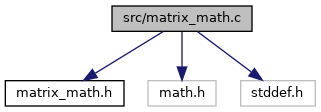
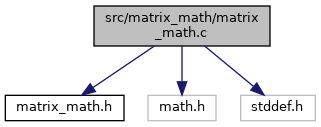
deploy: eb3fe1fb6cd07da78a9d0240a4da4241d661144b

diff --git a/main_8c_source.html b/main_8c_source.html
@@ -1,0 +1,139 @@
+<!DOCTYPE html PUBLIC "-//W3C//DTD XHTML 1.0 Transitional//EN" "https://www.w3.org/TR/xhtml1/DTD/xhtml1-transitional.dtd">
+<html xmlns="http://www.w3.org/1999/xhtml">
+<head>
+<meta http-equiv="Content-Type" content="text/xhtml;charset=UTF-8"/>
+<meta http-equiv="X-UA-Compatible" content="IE=9"/>
+<meta name="generator" content="Doxygen 1.8.18"/>
+<meta name="viewport" content="width=device-width, initial-scale=1"/>
+<title>c_matrix_library: src/main.c Source File</title>
+<link href="tabs.css" rel="stylesheet" type="text/css"/>
+<script type="text/javascript" src="jquery.js"></script>
+<script type="text/javascript" src="dynsections.js"></script>
+<link href="search/search.css" rel="stylesheet" type="text/css"/>
+<script type="text/javascript" src="search/searchdata.js"></script>
+<script type="text/javascript" src="search/search.js"></script>
+<link href="doxygen.css" rel="stylesheet" type="text/css" />
+</head>
+<body>
+<div id="top"><!-- do not remove this div, it is closed by doxygen! -->
+<div id="titlearea">
+<table cellspacing="0" cellpadding="0">
+ <tbody>
+ <tr style="height: 56px;">
+  <td id="projectalign" style="padding-left: 0.5em;">
+   <div id="projectname">c_matrix_library
+   </div>
+  </td>
+ </tr>
+ </tbody>
+</table>
+</div>
+<!-- end header part -->
+<!-- Generated by Doxygen 1.8.18 -->
+<script type="text/javascript">
+/* @license magnet:?xt=urn:btih:cf05388f2679ee054f2beb29a391d25f4e673ac3&amp;dn=gpl-2.0.txt GPL-v2 */
+var searchBox = new SearchBox("searchBox", "search",false,'Search');
+/* @license-end */
+</script>
+<script type="text/javascript" src="menudata.js"></script>
+<script type="text/javascript" src="menu.js"></script>
+<script type="text/javascript">
+/* @license magnet:?xt=urn:btih:cf05388f2679ee054f2beb29a391d25f4e673ac3&amp;dn=gpl-2.0.txt GPL-v2 */
+$(function() {
+  initMenu('',true,false,'search.php','Search');
+  $(document).ready(function() { init_search(); });
+});
+/* @license-end */</script>
+<div id="main-nav"></div>
+<!-- window showing the filter options -->
+<div id="MSearchSelectWindow"
+     onmouseover="return searchBox.OnSearchSelectShow()"
+     onmouseout="return searchBox.OnSearchSelectHide()"
+     onkeydown="return searchBox.OnSearchSelectKey(event)">
+</div>
+
+<!-- iframe showing the search results (closed by default) -->
+<div id="MSearchResultsWindow">
+<iframe src="javascript:void(0)" frameborder="0" 
+        name="MSearchResults" id="MSearchResults">
+</iframe>
+</div>
+
+<div id="nav-path" class="navpath">
+  <ul>
+<li class="navelem"><a class="el" href="dir_68267d1309a1af8e8297ef4c3efbcdba.html">src</a></li>  </ul>
+</div>
+</div><!-- top -->
+<div class="header">
+  <div class="headertitle">
+<div class="title">main.c</div>  </div>
+</div><!--header-->
+<div class="contents">
+<div class="fragment"><div class="line"><a name="l00001"></a><span class="lineno">    1</span>&#160;<span class="preprocessor">#include &quot;<a class="code" href="matrix__math_8h.html">matrix_math.h</a>&quot;</span></div>
+<div class="line"><a name="l00002"></a><span class="lineno">    2</span>&#160; </div>
+<div class="line"><a name="l00003"></a><span class="lineno">    3</span>&#160;<span class="preprocessor">#include &lt;stdio.h&gt;</span></div>
+<div class="line"><a name="l00004"></a><span class="lineno">    4</span>&#160; </div>
+<div class="line"><a name="l00005"></a><span class="lineno">    5</span>&#160;<span class="keywordtype">int</span> main(<span class="keywordtype">void</span>)</div>
+<div class="line"><a name="l00006"></a><span class="lineno">    6</span>&#160;{</div>
+<div class="line"><a name="l00007"></a><span class="lineno">    7</span>&#160;    <a class="code" href="matrix__math_8h.html#a336e5554a8511665fbe82939fdb8a75d">MTX_Error_E</a> error;</div>
+<div class="line"><a name="l00008"></a><span class="lineno">    8</span>&#160; </div>
+<div class="line"><a name="l00009"></a><span class="lineno">    9</span>&#160;    <span class="keywordtype">float</span> dataA[3][3] = {</div>
+<div class="line"><a name="l00010"></a><span class="lineno">   10</span>&#160;        {1.0f, 2.0f, 3.0f}, </div>
+<div class="line"><a name="l00011"></a><span class="lineno">   11</span>&#160;        {4.0f, 5.0f, 6.0f}, </div>
+<div class="line"><a name="l00012"></a><span class="lineno">   12</span>&#160;        {7.0f, 8.0f, 9.0f}};</div>
+<div class="line"><a name="l00013"></a><span class="lineno">   13</span>&#160; </div>
+<div class="line"><a name="l00014"></a><span class="lineno">   14</span>&#160;    <span class="keywordtype">float</span> dataB[3][3] = {</div>
+<div class="line"><a name="l00015"></a><span class="lineno">   15</span>&#160;        {1.0f, 2.0f, 3.0f}, </div>
+<div class="line"><a name="l00016"></a><span class="lineno">   16</span>&#160;        {4.0f, 5.0f, 6.0f}, </div>
+<div class="line"><a name="l00017"></a><span class="lineno">   17</span>&#160;        {7.0f, 8.0f, 9.0f}};</div>
+<div class="line"><a name="l00018"></a><span class="lineno">   18</span>&#160; </div>
+<div class="line"><a name="l00019"></a><span class="lineno">   19</span>&#160;    <span class="keywordtype">float</span> dataC[3][3];</div>
+<div class="line"><a name="l00020"></a><span class="lineno">   20</span>&#160; </div>
+<div class="line"><a name="l00021"></a><span class="lineno">   21</span>&#160;    <a class="code" href="structMTX__Matrix__STRUCT.html">MTX_Matrix_S</a> A, B, C;</div>
+<div class="line"><a name="l00022"></a><span class="lineno">   22</span>&#160; </div>
+<div class="line"><a name="l00023"></a><span class="lineno">   23</span>&#160;    <a class="code" href="matrix__math_8c.html#ad77c0f13d3f30a84e9d42ca7d2c40282">MTX_init</a>(&amp;A, 3, 3, (<span class="keywordtype">float</span> *)dataA, &amp;error);</div>
+<div class="line"><a name="l00024"></a><span class="lineno">   24</span>&#160;    <a class="code" href="matrix__math_8c.html#ad77c0f13d3f30a84e9d42ca7d2c40282">MTX_init</a>(&amp;B, 3, 3, (<span class="keywordtype">float</span> *)dataB, &amp;error);</div>
+<div class="line"><a name="l00025"></a><span class="lineno">   25</span>&#160;    <a class="code" href="matrix__math_8c.html#ad77c0f13d3f30a84e9d42ca7d2c40282">MTX_init</a>(&amp;C, 3, 3, (<span class="keywordtype">float</span> *)dataC, &amp;error);</div>
+<div class="line"><a name="l00026"></a><span class="lineno">   26</span>&#160; </div>
+<div class="line"><a name="l00027"></a><span class="lineno">   27</span>&#160;    <span class="comment">// C = cholesky(A)</span></div>
+<div class="line"><a name="l00028"></a><span class="lineno">   28</span>&#160;    <a class="code" href="matrix__math_8c.html#a34f5f55e427aec058991cd7fcde23878">MTX_cholesky</a>(&amp;C, &amp;A, &amp;error);</div>
+<div class="line"><a name="l00029"></a><span class="lineno">   29</span>&#160; </div>
+<div class="line"><a name="l00030"></a><span class="lineno">   30</span>&#160;    <span class="comment">// B = A + B</span></div>
+<div class="line"><a name="l00031"></a><span class="lineno">   31</span>&#160;    <a class="code" href="matrix__math_8c.html#a5814af14021b0e3dc78baccff27b858e">MTX_add</a>(&amp;B, &amp;A, &amp;B, &amp;error);</div>
+<div class="line"><a name="l00032"></a><span class="lineno">   32</span>&#160; </div>
+<div class="line"><a name="l00033"></a><span class="lineno">   33</span>&#160;    <span class="comment">// C = A * B</span></div>
+<div class="line"><a name="l00034"></a><span class="lineno">   34</span>&#160;    <a class="code" href="matrix__math_8c.html#a48d55bb4ab8739b1209b87eea9e88abe">MTX_mult</a>(&amp;C, &amp;A, &amp;B, &amp;error);</div>
+<div class="line"><a name="l00035"></a><span class="lineno">   35</span>&#160; </div>
+<div class="line"><a name="l00036"></a><span class="lineno">   36</span>&#160;    <span class="comment">// print A matrix if MTX_mult succesfull</span></div>
+<div class="line"><a name="l00037"></a><span class="lineno">   37</span>&#160;    <span class="keywordflow">if</span> (error == <a class="code" href="matrix__math_8h.html#abfe82fa1f49083bdafda92aa88edc4faaf779365666a400fb47d2b757fa97e6ab">MTX_Matrix_ERROR_NONE</a>) {</div>
+<div class="line"><a name="l00038"></a><span class="lineno">   38</span>&#160;        <span class="keywordtype">int</span> i, j;</div>
+<div class="line"><a name="l00039"></a><span class="lineno">   39</span>&#160;        <span class="keywordflow">for</span> (i = 0; i &lt; C.<a class="code" href="structMTX__Matrix__STRUCT.html#a802019289713592116249dd0a0f37b22">cols</a>; i++) {</div>
+<div class="line"><a name="l00040"></a><span class="lineno">   40</span>&#160;            <span class="keywordflow">for</span> (j = 0; j &lt; C.<a class="code" href="structMTX__Matrix__STRUCT.html#a0e795e94211fc8a8a166519eb50c4d6d">rows</a>; j++) {</div>
+<div class="line"><a name="l00041"></a><span class="lineno">   41</span>&#160;                printf(<span class="stringliteral">&quot;%.4f &quot;</span>, C.<a class="code" href="structMTX__Matrix__STRUCT.html#aa131109f69f490da3ad5cb7f51b45a40">data</a>[i + j * C.<a class="code" href="structMTX__Matrix__STRUCT.html#a802019289713592116249dd0a0f37b22">cols</a>]);</div>
+<div class="line"><a name="l00042"></a><span class="lineno">   42</span>&#160;            }</div>
+<div class="line"><a name="l00043"></a><span class="lineno">   43</span>&#160;            printf(<span class="stringliteral">&quot;\n&quot;</span>);</div>
+<div class="line"><a name="l00044"></a><span class="lineno">   44</span>&#160;        }</div>
+<div class="line"><a name="l00045"></a><span class="lineno">   45</span>&#160;    }</div>
+<div class="line"><a name="l00046"></a><span class="lineno">   46</span>&#160; </div>
+<div class="line"><a name="l00047"></a><span class="lineno">   47</span>&#160;    <span class="keywordflow">return</span> 0;</div>
+<div class="line"><a name="l00048"></a><span class="lineno">   48</span>&#160;}</div>
+</div><!-- fragment --></div><!-- contents -->
+<div class="ttc" id="astructMTX__Matrix__STRUCT_html_aa131109f69f490da3ad5cb7f51b45a40"><div class="ttname"><a href="structMTX__Matrix__STRUCT.html#aa131109f69f490da3ad5cb7f51b45a40">MTX_Matrix_STRUCT::data</a></div><div class="ttdeci">float * data</div><div class="ttdoc">Pointer to one dimensional array of matrix elements.</div><div class="ttdef"><b>Definition:</b> <a href="matrix__math_8h_source.html#l00089">matrix_math.h:89</a></div></div>
+<div class="ttc" id="amatrix__math_8h_html_a336e5554a8511665fbe82939fdb8a75d"><div class="ttname"><a href="matrix__math_8h.html#a336e5554a8511665fbe82939fdb8a75d">MTX_Error_E</a></div><div class="ttdeci">enum MTX_Error_ENUM MTX_Error_E</div><div class="ttdoc">Matrix error enum typedef.</div><div class="ttdef"><b>Definition:</b> <a href="matrix__math_8h_source.html#l00001">matrix_math.h:108</a></div></div>
+<div class="ttc" id="amatrix__math_8c_html_ad77c0f13d3f30a84e9d42ca7d2c40282"><div class="ttname"><a href="matrix__math_8c.html#ad77c0f13d3f30a84e9d42ca7d2c40282">MTX_init</a></div><div class="ttdeci">void MTX_init(MTX_Matrix_S *c, unsigned int rows, unsigned int cols, float *data, MTX_Error_E *error)</div><div class="ttdoc">Function initializes MTX_Matrix_S data structure. Call init function before you want to work with MTX...</div><div class="ttdef"><b>Definition:</b> <a href="matrix__math_8c_source.html#l00030">matrix_math.c:30</a></div></div>
+<div class="ttc" id="amatrix__math_8h_html_abfe82fa1f49083bdafda92aa88edc4faaf779365666a400fb47d2b757fa97e6ab"><div class="ttname"><a href="matrix__math_8h.html#abfe82fa1f49083bdafda92aa88edc4faaf779365666a400fb47d2b757fa97e6ab">MTX_Matrix_ERROR_NONE</a></div><div class="ttdeci">@ MTX_Matrix_ERROR_NONE</div><div class="ttdoc">Matrix errors.</div><div class="ttdef"><b>Definition:</b> <a href="matrix__math_8h_source.html#l00097">matrix_math.h:97</a></div></div>
+<div class="ttc" id="amatrix__math_8h_html"><div class="ttname"><a href="matrix__math_8h.html">matrix_math.h</a></div><div class="ttdoc">Header file that holds matrix function definitions.</div></div>
+<div class="ttc" id="astructMTX__Matrix__STRUCT_html"><div class="ttname"><a href="structMTX__Matrix__STRUCT.html">MTX_Matrix_STRUCT</a></div><div class="ttdoc">Matrix data structure.</div><div class="ttdef"><b>Definition:</b> <a href="matrix__math_8h_source.html#l00086">matrix_math.h:86</a></div></div>
+<div class="ttc" id="amatrix__math_8c_html_a5814af14021b0e3dc78baccff27b858e"><div class="ttname"><a href="matrix__math_8c.html#a5814af14021b0e3dc78baccff27b858e">MTX_add</a></div><div class="ttdeci">void MTX_add(MTX_Matrix_S *c, const MTX_Matrix_S *a, const MTX_Matrix_S *b, MTX_Error_E *error)</div><div class="ttdoc">Function adds a and b matrixes and puts the result into the c matrix: c = a + b.</div><div class="ttdef"><b>Definition:</b> <a href="matrix__math_8c_source.html#l00081">matrix_math.c:81</a></div></div>
+<div class="ttc" id="amatrix__math_8c_html_a34f5f55e427aec058991cd7fcde23878"><div class="ttname"><a href="matrix__math_8c.html#a34f5f55e427aec058991cd7fcde23878">MTX_cholesky</a></div><div class="ttdeci">void MTX_cholesky(MTX_Matrix_S *c, const MTX_Matrix_S *a, MTX_Error_E *error)</div><div class="ttdoc">Function performs the Cholesky–Banachiewicz algorithm. Returns lower triangular matrix....</div><div class="ttdef"><b>Definition:</b> <a href="matrix__math_8c_source.html#l00546">matrix_math.c:546</a></div></div>
+<div class="ttc" id="amatrix__math_8c_html_a48d55bb4ab8739b1209b87eea9e88abe"><div class="ttname"><a href="matrix__math_8c.html#a48d55bb4ab8739b1209b87eea9e88abe">MTX_mult</a></div><div class="ttdeci">void MTX_mult(MTX_Matrix_S *c, const MTX_Matrix_S *a, const MTX_Matrix_S *b, MTX_Error_E *error)</div><div class="ttdoc">Multiplies two matrices a and b and puts the result in matrix c: c = a.</div><div class="ttdef"><b>Definition:</b> <a href="matrix__math_8c_source.html#l00336">matrix_math.c:336</a></div></div>
+<div class="ttc" id="astructMTX__Matrix__STRUCT_html_a802019289713592116249dd0a0f37b22"><div class="ttname"><a href="structMTX__Matrix__STRUCT.html#a802019289713592116249dd0a0f37b22">MTX_Matrix_STRUCT::cols</a></div><div class="ttdeci">unsigned int cols</div><div class="ttdoc">Number of matrix columns.</div><div class="ttdef"><b>Definition:</b> <a href="matrix__math_8h_source.html#l00088">matrix_math.h:88</a></div></div>
+<div class="ttc" id="astructMTX__Matrix__STRUCT_html_a0e795e94211fc8a8a166519eb50c4d6d"><div class="ttname"><a href="structMTX__Matrix__STRUCT.html#a0e795e94211fc8a8a166519eb50c4d6d">MTX_Matrix_STRUCT::rows</a></div><div class="ttdeci">unsigned int rows</div><div class="ttdoc">&lt; Matrix data structure</div><div class="ttdef"><b>Definition:</b> <a href="matrix__math_8h_source.html#l00087">matrix_math.h:87</a></div></div>
+<!-- start footer part -->
+<hr class="footer"/><address class="footer"><small>
+Generated by &#160;<a href="http://www.doxygen.org/index.html">
+<img class="footer" src="doxygen.png" alt="doxygen"/>
+</a> 1.8.18
+</small></address>
+</body>
+</html>

diff --git a/dir_997f231acc4668b3102fb3462a40d8b6.html b/dir_997f231acc4668b3102fb3462a40d8b6.html
@@ -5,7 +5,7 @@
 <meta http-equiv="X-UA-Compatible" content="IE=9"/>
 <meta name="generator" content="Doxygen 1.8.18"/>
 <meta name="viewport" content="width=device-width, initial-scale=1"/>
-<title>c_matrix_library: File List</title>
+<title>c_matrix_library: src/matrix_math Directory Reference</title>
 <link href="tabs.css" rel="stylesheet" type="text/css"/>
 <script type="text/javascript" src="jquery.js"></script>
 <script type="text/javascript" src="dynsections.js"></script>
@@ -45,7 +45,6 @@ $(function() {
 });
 /* @license-end */</script>
 <div id="main-nav"></div>
-</div><!-- top -->
 <!-- window showing the filter options -->
 <div id="MSearchSelectWindow"
      onmouseover="return searchBox.OnSearchSelectShow()"
@@ -60,20 +59,26 @@ $(function() {
 </iframe>
 </div>
 
+<div id="nav-path" class="navpath">
+  <ul>
+<li class="navelem"><a class="el" href="dir_68267d1309a1af8e8297ef4c3efbcdba.html">src</a></li><li class="navelem"><a class="el" href="dir_997f231acc4668b3102fb3462a40d8b6.html">matrix_math</a></li>  </ul>
+</div>
+</div><!-- top -->
 <div class="header">
   <div class="headertitle">
-<div class="title">File List</div>  </div>
+<div class="title">matrix_math Directory Reference</div>  </div>
 </div><!--header-->
 <div class="contents">
-<div class="textblock">Here is a list of all documented files with brief descriptions:</div><div class="directory">
-<div class="levels">[detail level <span onclick="javascript:toggleLevel(1);">1</span><span onclick="javascript:toggleLevel(2);">2</span><span onclick="javascript:toggleLevel(3);">3</span>]</div><table class="directory">
-<tr id="row_0_" class="even"><td class="entry"><span style="width:0px;display:inline-block;">&#160;</span><span id="arr_0_" class="arrow" onclick="toggleFolder('0_')">&#9660;</span><span id="img_0_" class="iconfopen" onclick="toggleFolder('0_')">&#160;</span><a class="el" href="dir_68267d1309a1af8e8297ef4c3efbcdba.html" target="_self">src</a></td><td class="desc"></td></tr>
-<tr id="row_0_0_"><td class="entry"><span style="width:16px;display:inline-block;">&#160;</span><span id="arr_0_0_" class="arrow" onclick="toggleFolder('0_0_')">&#9660;</span><span id="img_0_0_" class="iconfopen" onclick="toggleFolder('0_0_')">&#160;</span><a class="el" href="dir_997f231acc4668b3102fb3462a40d8b6.html" target="_self">matrix_math</a></td><td class="desc"></td></tr>
-<tr id="row_0_0_0_" class="even"><td class="entry"><span style="width:48px;display:inline-block;">&#160;</span><a href="matrix__math_8c_source.html"><span class="icondoc"></span></a><a class="el" href="matrix__math_8c.html" target="_self">matrix_math.c</a></td><td class="desc">Functions to perform matrix operations </td></tr>
-<tr id="row_0_0_1_"><td class="entry"><span style="width:48px;display:inline-block;">&#160;</span><a href="matrix__math_8h_source.html"><span class="icondoc"></span></a><a class="el" href="matrix__math_8h.html" target="_self">matrix_math.h</a></td><td class="desc">Header file that holds matrix function definitions </td></tr>
-<tr id="row_0_1_" class="even"><td class="entry"><span style="width:32px;display:inline-block;">&#160;</span><a href="main_8c_source.html"><span class="icondoc"></span></a><b>main.c</b></td><td class="desc"></td></tr>
+<table class="memberdecls">
+<tr class="heading"><td colspan="2"><h2 class="groupheader"><a name="files"></a>
+Files</h2></td></tr>
+<tr class="memitem:matrix__math_8c"><td class="memItemLeft" align="right" valign="top">file &#160;</td><td class="memItemRight" valign="bottom"><a class="el" href="matrix__math_8c.html">matrix_math.c</a> <a href="matrix__math_8c_source.html">[code]</a></td></tr>
+<tr class="memdesc:matrix__math_8c"><td class="mdescLeft">&#160;</td><td class="mdescRight">Functions to perform matrix operations. <br /></td></tr>
+<tr class="separator:"><td class="memSeparator" colspan="2">&#160;</td></tr>
+<tr class="memitem:matrix__math_8h"><td class="memItemLeft" align="right" valign="top">file &#160;</td><td class="memItemRight" valign="bottom"><a class="el" href="matrix__math_8h.html">matrix_math.h</a> <a href="matrix__math_8h_source.html">[code]</a></td></tr>
+<tr class="memdesc:matrix__math_8h"><td class="mdescLeft">&#160;</td><td class="mdescRight">Header file that holds matrix function definitions. <br /></td></tr>
+<tr class="separator:"><td class="memSeparator" colspan="2">&#160;</td></tr>
 </table>
-</div><!-- directory -->
 </div><!-- contents -->
 <!-- start footer part -->
 <hr class="footer"/><address class="footer"><small>

diff --git a/dir_000000_000001.html b/dir_000000_000001.html
@@ -5,7 +5,7 @@
 <meta http-equiv="X-UA-Compatible" content="IE=9"/>
 <meta name="generator" content="Doxygen 1.8.18"/>
 <meta name="viewport" content="width=device-width, initial-scale=1"/>
-<title>c_matrix_library: File List</title>
+<title>c_matrix_library: src -&gt; matrix_math Relation</title>
 <link href="tabs.css" rel="stylesheet" type="text/css"/>
 <script type="text/javascript" src="jquery.js"></script>
 <script type="text/javascript" src="dynsections.js"></script>
@@ -45,7 +45,6 @@ $(function() {
 });
 /* @license-end */</script>
 <div id="main-nav"></div>
-</div><!-- top -->
 <!-- window showing the filter options -->
 <div id="MSearchSelectWindow"
      onmouseover="return searchBox.OnSearchSelectShow()"
@@ -60,21 +59,13 @@ $(function() {
 </iframe>
 </div>
 
-<div class="header">
-  <div class="headertitle">
-<div class="title">File List</div>  </div>
-</div><!--header-->
+<div id="nav-path" class="navpath">
+  <ul>
+<li class="navelem"><a class="el" href="dir_68267d1309a1af8e8297ef4c3efbcdba.html">src</a></li>  </ul>
+</div>
+</div><!-- top -->
 <div class="contents">
-<div class="textblock">Here is a list of all documented files with brief descriptions:</div><div class="directory">
-<div class="levels">[detail level <span onclick="javascript:toggleLevel(1);">1</span><span onclick="javascript:toggleLevel(2);">2</span><span onclick="javascript:toggleLevel(3);">3</span>]</div><table class="directory">
-<tr id="row_0_" class="even"><td class="entry"><span style="width:0px;display:inline-block;">&#160;</span><span id="arr_0_" class="arrow" onclick="toggleFolder('0_')">&#9660;</span><span id="img_0_" class="iconfopen" onclick="toggleFolder('0_')">&#160;</span><a class="el" href="dir_68267d1309a1af8e8297ef4c3efbcdba.html" target="_self">src</a></td><td class="desc"></td></tr>
-<tr id="row_0_0_"><td class="entry"><span style="width:16px;display:inline-block;">&#160;</span><span id="arr_0_0_" class="arrow" onclick="toggleFolder('0_0_')">&#9660;</span><span id="img_0_0_" class="iconfopen" onclick="toggleFolder('0_0_')">&#160;</span><a class="el" href="dir_997f231acc4668b3102fb3462a40d8b6.html" target="_self">matrix_math</a></td><td class="desc"></td></tr>
-<tr id="row_0_0_0_" class="even"><td class="entry"><span style="width:48px;display:inline-block;">&#160;</span><a href="matrix__math_8c_source.html"><span class="icondoc"></span></a><a class="el" href="matrix__math_8c.html" target="_self">matrix_math.c</a></td><td class="desc">Functions to perform matrix operations </td></tr>
-<tr id="row_0_0_1_"><td class="entry"><span style="width:48px;display:inline-block;">&#160;</span><a href="matrix__math_8h_source.html"><span class="icondoc"></span></a><a class="el" href="matrix__math_8h.html" target="_self">matrix_math.h</a></td><td class="desc">Header file that holds matrix function definitions </td></tr>
-<tr id="row_0_1_" class="even"><td class="entry"><span style="width:32px;display:inline-block;">&#160;</span><a href="main_8c_source.html"><span class="icondoc"></span></a><b>main.c</b></td><td class="desc"></td></tr>
-</table>
-</div><!-- directory -->
-</div><!-- contents -->
+<h3>src &rarr; matrix_math Relation</h3><table class="dirtab"><tr class="dirtab"><th class="dirtab">File in src</th><th class="dirtab">Includes file in src/matrix_math</th></tr><tr class="dirtab"><td class="dirtab"><b>main.c</b></td><td class="dirtab"><a class="el" href="matrix__math_8h.html">matrix_math.h</a></td></tr></table></div><!-- contents -->
 <!-- start footer part -->
 <hr class="footer"/><address class="footer"><small>
 Generated by &#160;<a href="http://www.doxygen.org/index.html">

diff --git a/matrix__math_8c.html b/matrix__math_8c.html
@@ -5,7 +5,7 @@
 <meta http-equiv="X-UA-Compatible" content="IE=9"/>
 <meta name="generator" content="Doxygen 1.8.18"/>
 <meta name="viewport" content="width=device-width, initial-scale=1"/>
-<title>c_matrix_library: src/matrix_math.c File Reference</title>
+<title>c_matrix_library: src/matrix_math/matrix_math.c File Reference</title>
 <link href="tabs.css" rel="stylesheet" type="text/css"/>
 <script type="text/javascript" src="jquery.js"></script>
 <script type="text/javascript" src="dynsections.js"></script>
@@ -61,7 +61,7 @@ $(function() {
 
 <div id="nav-path" class="navpath">
   <ul>
-<li class="navelem"><a class="el" href="dir_68267d1309a1af8e8297ef4c3efbcdba.html">src</a></li>  </ul>
+<li class="navelem"><a class="el" href="dir_68267d1309a1af8e8297ef4c3efbcdba.html">src</a></li><li class="navelem"><a class="el" href="dir_997f231acc4668b3102fb3462a40d8b6.html">matrix_math</a></li>  </ul>
 </div>
 </div><!-- top -->
 <div class="header">
@@ -80,12 +80,12 @@ $(function() {
 </div><div class="textblock"><div class="dynheader">
 Include dependency graph for matrix_math.c:</div>
 <div class="dyncontent">
-<div class="center"><img src="matrix__math_8c__incl.png" border="0" usemap="#src_2matrix__math_8c" alt=""/></div>
-<map name="src_2matrix__math_8c" id="src_2matrix__math_8c">
-<area shape="rect" title="Functions to perform matrix operations." alt="" coords="112,5,252,32"/>
-<area shape="rect" href="matrix__math_8h.html" title="Header file that holds matrix function definitions." alt="" coords="5,80,124,107"/>
-<area shape="rect" title=" " alt="" coords="148,80,216,107"/>
-<area shape="rect" title=" " alt="" coords="241,80,315,107"/>
+<div class="center"><img src="matrix__math_8c__incl.png" border="0" usemap="#src_2matrix__math_2matrix__math_8c" alt=""/></div>
+<map name="src_2matrix__math_2matrix__math_8c" id="src_2matrix__math_2matrix__math_8c">
+<area shape="rect" title="Functions to perform matrix operations." alt="" coords="94,5,270,47"/>
+<area shape="rect" href="matrix__math_8h.html" title="Header file that holds matrix function definitions." alt="" coords="5,95,124,121"/>
+<area shape="rect" title=" " alt="" coords="148,95,216,121"/>
+<area shape="rect" title=" " alt="" coords="241,95,315,121"/>
 </map>
 </div>
 </div>

diff --git a/matrix__math_8h.html b/matrix__math_8h.html
@@ -5,7 +5,7 @@
 <meta http-equiv="X-UA-Compatible" content="IE=9"/>
 <meta name="generator" content="Doxygen 1.8.18"/>
 <meta name="viewport" content="width=device-width, initial-scale=1"/>
-<title>c_matrix_library: src/matrix_math.h File Reference</title>
+<title>c_matrix_library: src/matrix_math/matrix_math.h File Reference</title>
 <link href="tabs.css" rel="stylesheet" type="text/css"/>
 <script type="text/javascript" src="jquery.js"></script>
 <script type="text/javascript" src="dynsections.js"></script>
@@ -61,7 +61,7 @@ $(function() {
 
 <div id="nav-path" class="navpath">
   <ul>
-<li class="navelem"><a class="el" href="dir_68267d1309a1af8e8297ef4c3efbcdba.html">src</a></li>  </ul>
+<li class="navelem"><a class="el" href="dir_68267d1309a1af8e8297ef4c3efbcdba.html">src</a></li><li class="navelem"><a class="el" href="dir_997f231acc4668b3102fb3462a40d8b6.html">matrix_math</a></li>  </ul>
 </div>
 </div><!-- top -->
 <div class="header">
@@ -81,10 +81,11 @@ $(function() {
 <div class="textblock"><div class="dynheader">
 This graph shows which files directly or indirectly include this file:</div>
 <div class="dyncontent">
-<div class="center"><img src="matrix__math_8h__dep__incl.png" border="0" usemap="#src_2matrix__math_8hdep" alt=""/></div>
-<map name="src_2matrix__math_8hdep" id="src_2matrix__math_8hdep">
-<area shape="rect" title="Header file that holds matrix function definitions." alt="" coords="5,5,147,32"/>
-<area shape="rect" href="matrix__math_8c.html" title="Functions to perform matrix operations." alt="" coords="6,80,146,107"/>
+<div class="center"><img src="matrix__math_8h__dep__incl.png" border="0" usemap="#src_2matrix__math_2matrix__math_8hdep" alt=""/></div>
+<map name="src_2matrix__math_2matrix__math_8hdep" id="src_2matrix__math_2matrix__math_8hdep">
+<area shape="rect" title="Header file that holds matrix function definitions." alt="" coords="41,5,217,47"/>
+<area shape="rect" href="main_8c_source.html" title=" " alt="" coords="5,102,95,129"/>
+<area shape="rect" href="matrix__math_8c.html" title="Functions to perform matrix operations." alt="" coords="119,95,295,136"/>
 </map>
 </div>
 </div>

diff --git a/dir_68267d1309a1af8e8297ef4c3efbcdba.html b/dir_68267d1309a1af8e8297ef4c3efbcdba.html
@@ -69,15 +69,19 @@ $(function() {
 <div class="title">src Directory Reference</div>  </div>
 </div><!--header-->
 <div class="contents">
+<div class="dynheader">
+Directory dependency graph for src:</div>
+<div class="dyncontent">
+<div class="center"><img src="dir_68267d1309a1af8e8297ef4c3efbcdba_dep.png" border="0" usemap="#dir__68267d1309a1af8e8297ef4c3efbcdba__dep" alt="src"/></div>
+<map name="dir__68267d1309a1af8e8297ef4c3efbcdba__dep" id="dir__68267d1309a1af8e8297ef4c3efbcdba__dep">
+<area shape="rect" href="dir_997f231acc4668b3102fb3462a40d8b6.html" title="matrix_math" alt="" coords="27,123,133,171"/>
+<area shape="rect" href="dir_000000_000001.html" title="1" alt="" coords="84,97,93,112"/>
+<area shape="rect" href="dir_68267d1309a1af8e8297ef4c3efbcdba.html" alt="" coords="16,16,144,181"/>
+</map>
+</div>
 <table class="memberdecls">
-<tr class="heading"><td colspan="2"><h2 class="groupheader"><a name="files"></a>
-Files</h2></td></tr>
-<tr class="memitem:matrix__math_8c"><td class="memItemLeft" align="right" valign="top">file &#160;</td><td class="memItemRight" valign="bottom"><a class="el" href="matrix__math_8c.html">matrix_math.c</a> <a href="matrix__math_8c_source.html">[code]</a></td></tr>
-<tr class="memdesc:matrix__math_8c"><td class="mdescLeft">&#160;</td><td class="mdescRight">Functions to perform matrix operations. <br /></td></tr>
-<tr class="separator:"><td class="memSeparator" colspan="2">&#160;</td></tr>
-<tr class="memitem:matrix__math_8h"><td class="memItemLeft" align="right" valign="top">file &#160;</td><td class="memItemRight" valign="bottom"><a class="el" href="matrix__math_8h.html">matrix_math.h</a> <a href="matrix__math_8h_source.html">[code]</a></td></tr>
-<tr class="memdesc:matrix__math_8h"><td class="mdescLeft">&#160;</td><td class="mdescRight">Header file that holds matrix function definitions. <br /></td></tr>
-<tr class="separator:"><td class="memSeparator" colspan="2">&#160;</td></tr>
+<tr class="heading"><td colspan="2"><h2 class="groupheader"><a name="subdirs"></a>
+Directories</h2></td></tr>
 </table>
 </div><!-- contents -->
 <!-- start footer part -->

diff --git a/matrix__math_8c_source.html b/matrix__math_8c_source.html
@@ -5,7 +5,7 @@
 <meta http-equiv="X-UA-Compatible" content="IE=9"/>
 <meta name="generator" content="Doxygen 1.8.18"/>
 <meta name="viewport" content="width=device-width, initial-scale=1"/>
-<title>c_matrix_library: src/matrix_math.c Source File</title>
+<title>c_matrix_library: src/matrix_math/matrix_math.c Source File</title>
 <link href="tabs.css" rel="stylesheet" type="text/css"/>
 <script type="text/javascript" src="jquery.js"></script>
 <script type="text/javascript" src="dynsections.js"></script>
@@ -61,7 +61,7 @@ $(function() {
 
 <div id="nav-path" class="navpath">
   <ul>
-<li class="navelem"><a class="el" href="dir_68267d1309a1af8e8297ef4c3efbcdba.html">src</a></li>  </ul>
+<li class="navelem"><a class="el" href="dir_68267d1309a1af8e8297ef4c3efbcdba.html">src</a></li><li class="navelem"><a class="el" href="dir_997f231acc4668b3102fb3462a40d8b6.html">matrix_math</a></li>  </ul>
 </div>
 </div><!-- top -->
 <div class="header">

diff --git a/matrix__math_8h_source.html b/matrix__math_8h_source.html
@@ -5,7 +5,7 @@
 <meta http-equiv="X-UA-Compatible" content="IE=9"/>
 <meta name="generator" content="Doxygen 1.8.18"/>
 <meta name="viewport" content="width=device-width, initial-scale=1"/>
-<title>c_matrix_library: src/matrix_math.h Source File</title>
+<title>c_matrix_library: src/matrix_math/matrix_math.h Source File</title>
 <link href="tabs.css" rel="stylesheet" type="text/css"/>
 <script type="text/javascript" src="jquery.js"></script>
 <script type="text/javascript" src="dynsections.js"></script>
@@ -61,7 +61,7 @@ $(function() {
 
 <div id="nav-path" class="navpath">
   <ul>
-<li class="navelem"><a class="el" href="dir_68267d1309a1af8e8297ef4c3efbcdba.html">src</a></li>  </ul>
+<li class="navelem"><a class="el" href="dir_68267d1309a1af8e8297ef4c3efbcdba.html">src</a></li><li class="navelem"><a class="el" href="dir_997f231acc4668b3102fb3462a40d8b6.html">matrix_math</a></li>  </ul>
 </div>
 </div><!-- top -->
 <div class="header">

diff --git a/index.html b/index.html
@@ -109,6 +109,7 @@ Installation</h2>
 </ol>
 <h2><a class="anchor" id="autotoc_md5"></a>
 Usage</h2>
+<p>See <code><a class="el" href="main_8c_source.html">src/main.c</a></code> file for more comprehensive example.</p>
 <div class="fragment"><div class="line"><span class="preprocessor">#include &quot;<a class="code" href="matrix__math_8h.html">matrix_math.h</a>&quot;</span></div>
 <div class="line"> </div>
 <div class="line"><span class="keywordtype">int</span> main(<span class="keywordtype">void</span>) {</div>

diff --git a/structMTX__Matrix__STRUCT.html b/structMTX__Matrix__STRUCT.html
@@ -112,7 +112,7 @@ float *&#160;</td><td class="memItemRight" valign="bottom"><a class="el" href="s
 </div>
 </div>
 <hr/>The documentation for this struct was generated from the following file:<ul>
-<li>src/<a class="el" href="matrix__math_8h_source.html">matrix_math.h</a></li>
+<li>src/matrix_math/<a class="el" href="matrix__math_8h_source.html">matrix_math.h</a></li>
 </ul>
 </div><!-- contents -->
 <!-- start footer part -->
